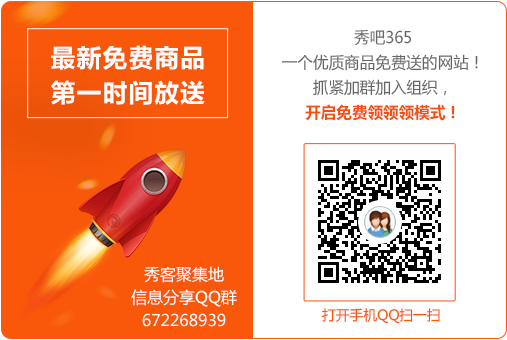
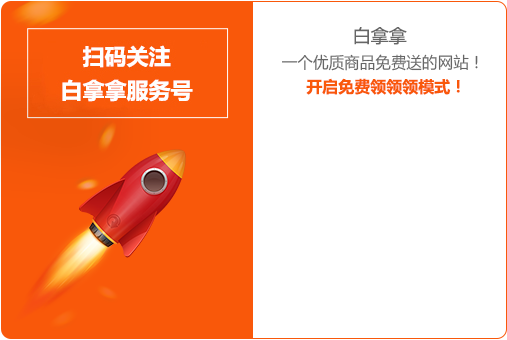
公众号二维码图片修改

diff --git a/src/view/Home.vue b/src/view/Home.vue
@@ -432,6 +432,7 @@
       <div slot="footer">
       </div>
     </Modal>
+
     <div class="confirm-recharge-model" v-show="$store.state.wechartShow">
       <div class="confirm-recharge-con">
         <div class="pos-rel">
@@ -441,8 +442,24 @@
           <div style="position: absolute;top:27px;right: 15px;cursor: pointer;color: #FF6633" @click="cancelWeiChartFunc">
             <Icon type="close" ></Icon>
           </div>
-          <img v-show="getUserInfoRole === 0" src="/static/img/home/wechart_alert_07.png" alt=""
-               style="width: 507px;height: 340px; margin-top: 20px">
+          <div v-if="getUserInfoRole === 0">
+            <img  src="/static/img/home/wechart_alert_07.png" alt=""
+                 style="width: 507px;height: 340px; margin-top: 20px">
+            <img  src="/static/img/common/qr_code_bainana.png" alt=""
+                 style="position: absolute;
+                      bottom: 55px;
+                      left: 307px;
+                      width: 150px;"
+            >
+            <p  class="text-ct"
+               style="position: absolute;
+                    bottom: 26px;
+                    right: 67px;
+                    font-size: 16px;
+                    color: #ff6633;"
+            >打开微信扫一扫</p>
+          </div>
+
         </div>
       </div>
     </div>

diff --git a/src/App.vue b/src/App.vue
@@ -11,8 +11,14 @@
       <a href="http://wpa.qq.com/msgrd?v=3&site=qq&menu=yes&uin=1624363653" target="_blank" v-if="getUserRole === 1">
         <img src="~assets/img/common/suspend-service.png" alt="">
       </a>
-      <a href="https://jq.qq.com/?_wv=1027&k=5ZMH7Iu" target="_blank" v-else>
+      <a href="https://jq.qq.com/?_wv=1027&k=5ZMH7Iu" target="_blank" v-else class="pos-rel block">
         <img src="~assets/img/common/suspend-service-showker.png" alt="">
+        <div style="position: absolute; top: 126px; width: 100%;" class="text-ct">
+          <p class="text-ct main-color"  style="font-size: 13px; line-height: 20px;">群里都免费领到了</p>
+          <p class="text-ct main-color" style="font-size: 13px;  line-height: 20px;">还不快加？</p>
+          <img src="/static/img/common/qr_code_bainana.png" alt="" width="120px">
+          <p class="text-ct main-color" style="font-size: 13px;  line-height: 20px;">打开微信扫一扫</p>
+        </div>
       </a>
       <span class="close-suspend-service" @click.stop.self="closeSuspendService">关闭</span>
     </div>

diff --git a/src/components/Top.vue b/src/components/Top.vue
@@ -241,7 +241,7 @@
         if(self.searchKey){
           self.$router.push({ path: '/task-category', query: { searchKey: self.searchKey }})
         }else {
-          self.$Message.info('搜索词不能为空');
+          self.$router.push({ 'path': '/task-category', 'query': {'category': 'all', 'categoryId': 'all'}});
         }
 
       }
